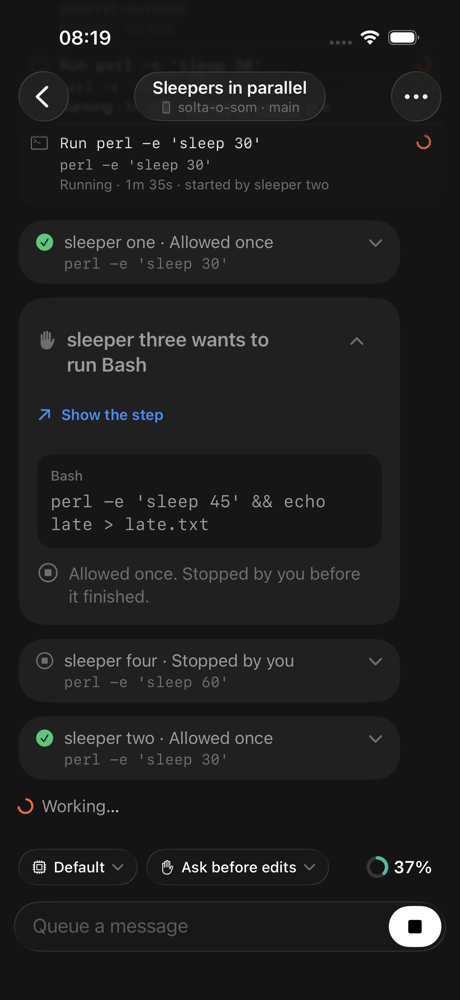
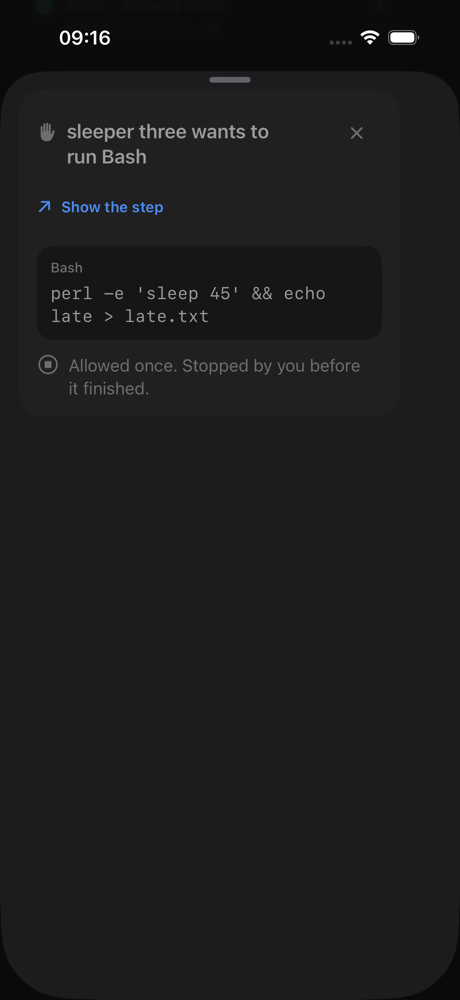
Open a folded card in a sheet at every size
At the default size a folded card near the top opened in place, grew
upward under the top bar and left its header and "Show the step" out of
reach. The in-place path is gone: a tap opens the whole card in a sheet
at any size, with Close in place of Collapse.

"Show the step" marks the step, which opens its run, and scrolls to the
step once on the next pass, instead of scrolling to the run and again
after a fixed delay. From the sheet it still waits for the sheet to
close.

diff --git a/ios/ClaudioBot/Views/ChatItems.swift b/ios/ClaudioBot/Views/ChatItems.swift
@@ -373,32 +373,27 @@ extension EnvironmentValues {
 }
 
 /// A permission card in a session's thread. It names the subagent that asked and links to the step it holds back.
-/// Once closed it folds to one line, so answered cards never push the running work off screen. A tap opens it again
-/// in place, or at the accessibility sizes in a sheet: there the whole card is taller than the screen, and the thread,
-/// which keeps its bottom still, would grow it upward past the top.
+/// Once closed it folds to one line, so answered cards never push the running work off screen. A tap opens the whole
+/// card in a sheet: the thread keeps its bottom still, so a card opened in place would grow upward under the top bar.
 struct SessionPermissionCard: View {
     let sessionId: SessionID
     let permission: SessionPermission
     let model: ThreadModel
 
-    @State private var opened = false
     @State private var sheet = false
     /// The step "Show the step" asked for from the sheet, revealed once the sheet is gone.
     @State private var pendingReveal: HeldStep?
     @Environment(\.revealStep) private var revealStep
-    @Environment(\.dynamicTypeSize) private var typeSize
 
     var body: some View {
         let card = permission.card
         let held = HeldStep.find(permission.stepId, in: model.items)
         TimelineView(.deadline(card.expiresAt)) { _ in
             Settling(card.answer(at: .now)) { answer in
-                if let answer, !opened {
-                    ClosedApprovalRow(permission: permission, outcome: answer.outcome(step: held?.step)) {
-                        if typeSize.isAccessibilitySize { sheet = true } else { opened = true }
-                    }
+                if let answer {
+                    ClosedApprovalRow(permission: permission, outcome: answer.outcome(step: held?.step)) { sheet = true }
                 } else {
-                    full(answer: answer, held: held, collapse: answer == nil ? nil : { opened = false })
+                    full(answer: nil, held: held)
                 }
             }
         }
@@ -408,7 +403,7 @@ struct SessionPermissionCard: View {
             pendingReveal = nil
         }) {
             ScrollView {
-                full(answer: card.answer, held: held, collapse: { sheet = false }, reveal: revealStep.map { _ in
+                full(answer: card.answer, held: held, close: { sheet = false }, reveal: revealStep.map { _ in
                     { held in
                         pendingReveal = held
                         sheet = false
@@ -422,7 +417,7 @@ struct SessionPermissionCard: View {
 
     /// reveal: what "Show the step" does. In the thread it scrolls there; from the sheet it closes the sheet first.
     private func full(
-        answer: PermissionAnswer?, held: HeldStep?, collapse: (() -> Void)?, reveal: ((HeldStep) -> Void)? = nil
+        answer: PermissionAnswer?, held: HeldStep?, close: (() -> Void)? = nil, reveal: ((HeldStep) -> Void)? = nil
     ) -> some View {
         let reveal = reveal ?? revealStep
         return PermissionCardBody(
@@ -430,15 +425,15 @@ struct SessionPermissionCard: View {
             decision: { .sessionDecide(sessionId: sessionId, cardId: permission.cardId, choice: $0) },
             step: held?.step, fillsColumn: true,
             reveal: held.flatMap { held in reveal.map { reveal in { reveal(held) } } },
-            collapse: collapse
+            close: close
         )
     }
 }
 
 /// An answered card folded to its outcome and command: "sleeper two · Allowed once" over "perl -e 'sleep 30'", or
-/// "Bash · Allowed once" when the main thread asked. At the accessibility sizes the command and the chevron wait for
-/// a tap, and the text stops growing at the second accessibility size: past that, three folded cards alone fill the
-/// screen and push the running work off it.
+/// "Bash · Allowed once" when the main thread asked. A tap opens the whole card in a sheet. At the accessibility sizes
+/// the command and the chevron wait for that sheet, and the text stops growing at the second accessibility size: past
+/// that, three folded cards alone fill the screen and push the running work off it.
 private struct ClosedApprovalRow: View {
     let permission: SessionPermission
     let outcome: PermissionOutcome
@@ -474,7 +469,6 @@ private struct ClosedApprovalRow: View {
         .buttonStyle(.pressable)
         .dynamicTypeSize(...DynamicTypeSize.accessibility2)
         .accessibilityLabel([permission.title, outcome.text, permission.card.detail].map { $0.hasSuffix(".") ? String($0.dropLast()) : $0 }.joined(separator: ". "))
-        .accessibilityValue("Collapsed")
         .accessibilityHint("Shows the whole request")
     }
 
@@ -483,7 +477,7 @@ private struct ClosedApprovalRow: View {
     }
 
     private var chevron: some View {
-        Image(systemName: "chevron.down")
+        Image(systemName: "chevron.right")
             .font(.ui(.footnote, weight: .semibold))
             .foregroundStyle(Theme.tertiary)
             .accessibilityHidden(true)
@@ -530,7 +524,8 @@ private struct PermissionCardBody: View {
     var step: ToolStep?
     var fillsColumn = false
     var reveal: (() -> Void)?
-    var collapse: (() -> Void)?
+    /// Set when the card shows in a sheet.
+    var close: (() -> Void)?
 
     @Environment(AppStore.self) private var store
     @Environment(BridgeClient.self) private var client
@@ -555,16 +550,16 @@ private struct PermissionCardBody: View {
                     .fixedSize(horizontal: false, vertical: true)
                     .frame(maxWidth: .infinity, alignment: .leading)
                     .accessibilityAddTraits(.isHeader)
-                if let collapse {
-                    Button(action: collapse) {
-                        Image(systemName: "chevron.up")
+                if let close {
+                    Button(action: close) {
+                        Image(systemName: "xmark")
                             .font(.ui(.footnote, weight: .semibold))
                             .foregroundStyle(Theme.tertiary)
                             .frame(minWidth: HitTarget.minHeight, minHeight: HitTarget.minHeight)
                             .contentShape(Rectangle())
                     }
                     .buttonStyle(.plain)
-                    .accessibilityLabel("Collapse")
+                    .accessibilityLabel("Close")
                 }
             }
             if case .agent(_, let title) = card.from {

diff --git a/ios/ClaudioBot/Views/SessionThreadView.swift b/ios/ClaudioBot/Views/SessionThreadView.swift
@@ -233,22 +233,19 @@ struct SessionThreadView: View {
         client.send(.sessionPage(sessionId: sessionId, before: cursor))
     }
 
-    /// Opens the fold that hides the step's work run, scrolls to it and tints the step for a moment. The run opens
-    /// itself when it sees the step marked.
+    /// Opens the fold that hides the step's work run and marks the step, which opens the run. On the next pass, once the
+    /// run has laid out its steps, it scrolls to the step and the mark fades after two seconds.
     private func reveal(_ held: HeldStep, in model: ThreadModel) {
         let fold = model.rows.first { row in
             if case let .fold(_, items, false) = row { items.contains { $0.id == held.row } } else { false }
         }
         if let fold { model.toggle(fold: fold.id) }
         followsBottom = false
-        withAnimation(reduceMotion ? nil : .snappy(duration: 0.35)) {
-            position.scrollTo(id: held.row, anchor: .center)
-            revealed = held
+        revealed = held
+        DispatchQueue.main.async {
+            withAnimation(reduceMotion ? nil : .snappy(duration: 0.35)) { position.scrollTo(id: held.step.id, anchor: .center) }
         }
         Task {
-            // The run opens a frame after it sees the step marked, and only then is the step there to center on.
-            try? await Task.sleep(for: .milliseconds(150))
-            withAnimation(reduceMotion ? nil : .snappy(duration: 0.35)) { position.scrollTo(id: held.step.id, anchor: .center) }
             try? await Task.sleep(for: .seconds(2))
             if revealed == held { withAnimation(.easeOut(duration: 0.4)) { revealed = nil } }
         }
